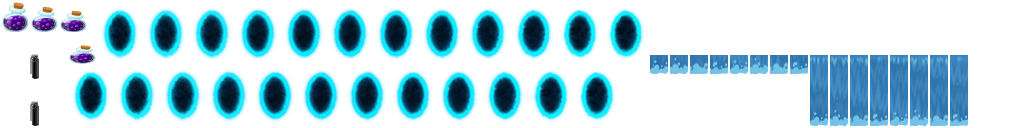
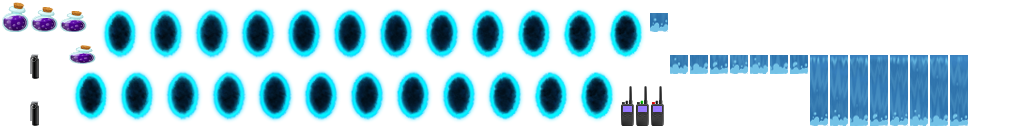
Added detector animation

Changed region(s): [[0.5938, 0.6875, 0.6562, 1.0], [0.625, 0.4062, 0.6562, 0.5938], [0.625, 0.0938, 0.6562, 0.25]]

diff --git a/core/src/ru/mitrakov/self/rush/ui/Gui.java b/core/src/ru/mitrakov/self/rush/ui/Gui.java
@@ -119,6 +119,7 @@ public class Gui extends Actor {
     private final Animation<TextureRegion> animAntidote;
     private final Animation<TextureRegion> animTeleport;
     private final Animation<TextureRegion> animDazzleGrenade;
+    private final Animation<TextureRegion> animDetector;
 
     private long frameNumber = 0, lastMoveFrame = -FRAMES_PER_MOVE;
     private float time = 0;
@@ -215,11 +216,13 @@ public class Gui extends Actor {
         Array<TextureAtlas.AtlasRegion> framesAntidote = atlasAnimated.findRegions("Antidote");
         Array<TextureAtlas.AtlasRegion> framesTeleport = atlasAnimated.findRegions("Teleport");
         Array<TextureAtlas.AtlasRegion> framesDazzleGrenade = atlasAnimated.findRegions("DazzleGrenade");
+        Array<TextureAtlas.AtlasRegion> framesDetector = atlasAnimated.findRegions("Detector");
         animWaterfall = new Animation<TextureRegion>(.09f, framesWaterfall, Animation.PlayMode.LOOP);
         animWaterfallSmall = new Animation<TextureRegion>(.09f, framesWaterfallSmall, Animation.PlayMode.LOOP);
         animAntidote = new Animation<TextureRegion>(.15f, framesAntidote, Animation.PlayMode.LOOP_PINGPONG);
         animTeleport = new Animation<TextureRegion>(.09f, framesTeleport, Animation.PlayMode.LOOP);
         animDazzleGrenade = new Animation<TextureRegion>(.09f, framesDazzleGrenade, Animation.PlayMode.LOOP);
+        animDetector = new Animation<TextureRegion>(.15f, framesDetector, Animation.PlayMode.LOOP);
         //
         for (int i = 0; i < STYLES_COUNT; i++) {
             // ladderBottom animations
@@ -288,6 +291,7 @@ public class Gui extends Actor {
             drawAnim(field, batch, Antidote.class, animAntidote);
             drawAnim(field, batch, Teleport.class, animTeleport);
             drawAnim(field, batch, DazzleGrenade.class, animDazzleGrenade);
+            drawAnim(field, batch, Detector.class, animDetector);
             // draw 7-th layer (animated characters)
             drawAnimatedObjects(field, batch, dt);
             // draw 8-th layer (all overlaying objects like Umbrella)
